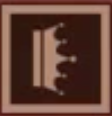
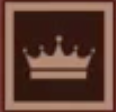
[19-03-04] 이미지 회전, 클릭 이벤트 제어 - 좌표값, 방향 값 얻기

diff --git a/src/main/resources/templates/gameRoom.html b/src/main/resources/templates/gameRoom.html
@@ -1,50 +1,100 @@
 {{#partial "content"}}
-<div id="playerList" style="display:table; margin:auto;"> </div>
+<div id="playerList" style="display:table; margin:auto;width:600px;border:solid 1px black;"> </div>
 <button id="readyBtn" class="mdl-button mdl-button--icon mdl-color-text--blue-grey-300">
     <i class="material-icons">play_circle_filled</i>
 </button>
 <div id="squares" style="display:table; margin:auto;">
     <div id="left" style="float:left">
-        <table>
+        <table id="chessSquares" style="width:440px; height:440px;">
         {{# chessSquares }}
             <tr>
             {{# pieceDtos }}
                 <td>
-                    <img src="{{ imagePath }}" class="square" width="50" height="50px"/>
+                    <img src="{{ imagePath }}" data-direction="{{ direction }}" class="square" width="50" height="50px"/>
                 </td>
             {{/ pieceDtos }}
             </tr>
         {{/ chessSquares }}
         </table>
     </div>
-    <div id="right" style="float:left">
-        <table style="visibility:hidden;" id="functions">
-            <tr> <td> <img src="/img/arrow/north.png" width="40" height="40"/> </td> </tr>
-            <tr> <td> <img src="/img/arrow/north_east.png" width="40" height="40"/> </td> </tr>
-            <tr> <td> <img src="/img/arrow/east.png" width="40" height="40"/> </td> </tr>
-            <tr> <td> <img src="/img/arrow/south_east.png" width="40" height="40"/> </td> </tr>
-            <tr> <td> <img src="/img/arrow/south.png" width="40" height="40"/> </td> </tr>
-            <tr> <td> <img src="/img/arrow/south_west.png" width="40" height="40"/> </td> </tr>
-            <tr> <td> <img src="/img/arrow/west.png" width="40" height="40"/> </td> </tr>
-            <tr> <td> <img src="/img/arrow/north_west.png" width="40" height="40"/> </td> </tr>
-            <tr> <td> <img src="/img/arrow/clockwise.png" width="40" height="40"/> </td> </tr>
-            <tr> <td> <img src="/img/arrow/counter_clockwise.png" width="40" height="40"/> </td> </tr>
-        </table>
+    <div id="right" style="float:left;width:150px;margin-left:10px;">
+        <div style="width:150px;height:100px;text-align:center;background-color:black;">
+            <font color="white"> <h1 id="timer"> timer </h1> </font>
+        </div>
+        <div style="width:150px;height:328px;border:solid 1px black;margin-top:10px">
+            <table style="visibility:hidden;width:150px;" class="play move">
+                <tr>
+                    <td> <img src="/img/arrow/north_west.png" width="40" height="40" data-value="8" class=""/> </td>
+                    <td> <img src="/img/arrow/north.png" width="40" height="40" data-value="1"/> </td>
+                    <td> <img src="/img/arrow/north_east.png" width="40" height="40" data-value="2"/> </td>
+                </tr>
+                <tr>
+                    <td> <img src="/img/arrow/west.png" width="40" height="40" data-value="7"/> </td>
+                    <td align="center"> <h5>이동</h5> </td>
+                    <td> <img src="/img/arrow/east.png" width="40" height="40" data-value="3"/> </td>
+                </tr>
+                <tr>
+                    <td> <img src="/img/arrow/south_west.png" width="40" height="40" data-value="6"/> </td>
+                    <td> <img src="/img/arrow/south.png" width="40" height="40" data-value="5"/> </td>
+                    <td> <img src="/img/arrow/south_east.png" width="40" height="40" data-value="4"/> </td>
+                </tr>
+            </table>
+            <br> <br>
+            <table style="visibility:hidden;;width:150px" class="play rotate">
+                <tr> <td align="center"> <img src="/img/arrow/clockwise.png" width="40" height="40" data-value="9"/> </td> </tr>
+                <tr> <td align="center"> 회전 </td></tr>
+                <tr> <td align="center"> <img src="/img/arrow/counter_clockwise.png" width="40" height="40" data-value="10"/> </td> </tr>
+            </table>
+        </div>
     </div>
 </div>
 <script src="/webjars/jquery/dist/jquery.min.js"></script>
 <script src="/webjars/sockjs-client/sockjs.min.js"></script>
 <script src="/webjars/stomp-websocket/stomp.min.js"></script>
+<script src="/js/jQueryRotate.js"></script>
 <script src="/js/socket.js"></script>
 <script type="text/javascript">
 $('.square').on('click', expandMenu);
 function expandMenu(e) {
-    if ($('#functions').css('visibility') == 'hidden'){
-        $('#functions').css('visibility', 'visible');
+    if ($('.play').css('visibility') == 'hidden'){
+        $('.play').css('visibility', 'visible');
+        $('.play').closest('td').css('background-color', 'red');
     } else{
-        $('#functions').css('visibility', 'hidden');
+        $('.play').css('visibility', 'hidden');
     }
 }
+
+var time = 120;
+function timerOn() {
+    timer = leadingZero(parseInt(Number(time) / 60)) + ' : ' + leadingZero(Number(time) % 60);
+    $('#timer').html('<h1>' + timer + '</h1>');
+    time -= 1;
+    console.log(timer);
+}
+
+function leadingZero(num) {
+    return num < 10 ? ('0' + num) : num;
+}
+
+var column_num;
+var row_num;
+$(document).ready(function() {
+    console.log('call')
+    setInterval(timerOn, 1000);
+
+   $("#chessSquares td").click(function() {
+       column_num = parseInt( $(this).index());
+       row_num = parseInt( $(this).parent().index() );
+   });
+
+   $(".play td img").click(function() {
+       // $(this).data('value')
+       console.log($(this).data('value'));
+   });
+
+});
+
+
 </script>
 {{/partial}}
 

diff --git a/src/main/resources/static/js/socket.js b/src/main/resources/static/js/socket.js
@@ -27,6 +27,15 @@ $(function () {
     });
 });
 
+$('#chessSquares tr').find('img').each(function() {
+     var direction = $(this).data('direction');
+     var operator = Math.floor(((direction - 1) + 1) / 2);
+     console.log(operator);
+     var angle = 0;
+     angle = 90 * operator;
+      $(this).rotate(angle);
+});
+
 function printUsers(e) {
     var content = JSON.parse(e.data);
     var code = "";

diff --git a/src/main/java/lasermaze/dto/PieceDto.java b/src/main/java/lasermaze/dto/PieceDto.java
@@ -1,22 +1,22 @@
 package lasermaze.dto;
 
 public class PieceDto {
-    private String direction;
+    private int direction;
     private String imagePath;
 
     public PieceDto() {
     }
 
-    public PieceDto(String direction, String imagePath) {
+    public PieceDto(int direction, String imagePath) {
         this.direction = direction;
         this.imagePath = imagePath;
     }
 
-    public String getDirection() {
+    public int getDirection() {
         return direction;
     }
 
-    public void setDirection(String direction) {
+    public void setDirection(int direction) {
         this.direction = direction;
     }
 

diff --git a/src/main/java/lasermaze/domain/game/piece/Piece.java b/src/main/java/lasermaze/domain/game/piece/Piece.java
@@ -59,7 +59,7 @@ public abstract class Piece implements Pieceable, Cloneable {
     }
 
     public PieceDto _toDto() {
-        return new PieceDto(direction.toString(), imagePath.getImagePath());
+        return new PieceDto(direction.getDirectionNumber(), imagePath.getImagePath());
     }
 
     @Override
